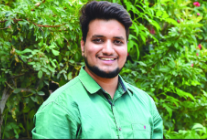
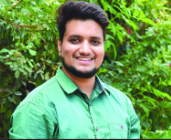
past edition cards

diff --git a/src/components/pasteditions/Pastspeakers.js b/src/components/pasteditions/Pastspeakers.js
@@ -1,14 +1,14 @@
 import React ,{useState} from 'react'
 import Videobutton from './Videobutton';
 import cvanand from '../images/year2018/cvanand.jpg'
-import akanshabumb from '../images/year2018/akanshabumb.png'
+import akanshabumb from '../images/year2018/akanshabumb.jpg'
 import rameshkumar from '../images/year2018/rameshkumar.png'
-import arshadquadri from '../images/year2018/arshadquadri.png'
-import jagadeeshkumar from '../images/year2018/jagadeeshkumar.png'
-import rakeshkumar from '../images/year2018/rakeshkumar.png'
+import arshadquadri from '../images/year2018/arshadquadri.jpg'
+import jagadeeshkumar from '../images/year2018/jagadeeshkumar.jpg'
+import rakeshkumar from '../images/year2018/rakeshkumar.jpg'
 import akhilagopalakrishnan from '../images/year2017/akhilagopalakrishnan.png'
-import anuradhanaik from '../images/year2017/anuradhanaik.png'
-import carolyntheresa from '../images/year2017/carolyntheresa.png'
+import anuradhanaik from '../images/year2017/anuradhanaik.jpg'
+import carolyntheresa from '../images/year2017/carolyntheresa.jpg'
 import jawwadpatel from '../images/year2017/jawwadpatel.png'
 import mohanakrishna from '../images/year2017/mohanakrishna.png'
 import prashantdhawan from '../images/year2017/prashantdhawan.png'
@@ -19,14 +19,14 @@ import sureshreddy from '../images/year2017/sureshreddy.jpg'
 import tisramband from '../images/year2017/tisramband.jpg'
 import bandrooh from "../images/year2016/bandrooh.png"
 import gandhikpc from "../images/year2016/gandhikpc.png"
-import nageswararao from "../images/year2016/nageswararao.png"
+import nageswararao from "../images/year2016/nageswararao.jpg"
 import paruvuharimohan from "../images/year2016/paruvuharimohan.png"
 import prasadkantamaneni from "../images/year2016/prasadkantamaneni.png"
-import ramanagogula from "../images/year2016/ramanagogula.png"
+import ramanagogula from "../images/year2016/ramanagogula.jpg"
 import rameshloganthan from "../images/year2016/rameshloganthan.png"
-import sandhyakode from "../images/year2016/sandhyakode.png"
+import sandhyakode from "../images/year2016/sandhyakode.jpg"
 import sanjayenishetty from "../images/year2016/sanjayenishetty.png"
-import seetamurthy from "../images/year2016/seetamurthy.png"
+import seetamurthy from "../images/year2016/seetamurthy.jpg"
 import theodorejonnalagadda from "../images/year2016/theodorejonnalagadda.png"
 import voicebox from "../images/year2016/voicebox.png"
 
@@ -66,7 +66,7 @@ function Pastspeakers({props}) {
                     "image":arshadquadri,
                 },
                 {
-                    "name":"Rakesh Kumar Renukuntala",
+                    "name":"Rakesh Kumar R",
                     "designation":"Entrepreneur, VFX" ,
                     "video":"",
                     "image":rakeshkumar,
@@ -149,18 +149,6 @@ function Pastspeakers({props}) {
             "year":2016,
             "speakers":[
                 {
-                    "name":"Band Rooh",
-                    "designation":"Fusion Band",
-                    "video":"https://youtube.com/embed/yxo7DYT-9C4",
-                    "image":bandrooh,
-                },
-                {
-                    "name":"Gandhi KPC",
-                    "designation":"Forensic Scientist",
-                    "video":"https://youtube.com/embed/QJLPla3cQPo",
-                    "image":gandhikpc,
-                },
-                {
                     "name":"Nageshwara Rao Dukkipati",
                     "designation":"Innovator",
                     "video":"https://youtube.com/embed/crZrM2_wbOY",
@@ -185,6 +173,18 @@ function Pastspeakers({props}) {
                     "image":ramanagogula,
                 },
                 {
+                    "name":"Seeta Murty",
+                    "designation":"School Principal,Author",
+                    "video":"https://youtube.com/embed/JggZuQR3-2U",
+                    "image":seetamurthy,
+                },
+                {
+                    "name":"Band Rooh",
+                    "designation":"Fusion Band",
+                    "video":"https://youtube.com/embed/yxo7DYT-9C4",
+                    "image":bandrooh,
+                },
+                {
                     "name":"Ramesh Loganathan",
                     "designation":"Vice president at Progress software",
                     "video":"https://youtube.com/embed/ncTY1hUBhuA",
@@ -202,11 +202,12 @@ function Pastspeakers({props}) {
                     "video":"https://youtube.com/embed/qIhcXTzQGJQ",
                     "image":sanjayenishetty,
                 },
+                
                 {
-                    "name":"Seeta Murty",
-                    "designation":"School Principal,Author",
-                    "video":"https://youtube.com/embed/JggZuQR3-2U",
-                    "image":seetamurthy,
+                    "name":"Gandhi KPC",
+                    "designation":"Forensic Scientist",
+                    "video":"https://youtube.com/embed/QJLPla3cQPo",
+                    "image":gandhikpc,
                 },
                 {
                     "name":"Theodore Jonnalagadda",
@@ -229,14 +230,14 @@ function Pastspeakers({props}) {
    
   return (
     <div className=''>
-        <h1 className='mobile:text-2xl  md:text-3xl lg:text-4xl mb-8 text-red-700 font-semibold mt-6'>Speakers</h1>
-        <div className="grid md:grid-cols-2 lg:grid-cols-3 xl:grid-cols-4  lg:gap-xl-12 mobile:ml-8 lg:ml-0">
+        <h1 className='mobile:text-2xl  md:text-3xl lg:text-4xl mb-4 text-red-700 font-semibold mt-6  '>Speakers</h1>
+        <div className="grid md:grid-cols-2 lg:grid-cols-3 xl:grid-cols-3  lg:gap-xl-12">
             {obj.map((s)=>(
-            <div className="mb-12 pt-6 pb-6 duration-200 rounded-xl  hover:bg-zinc-900 transition ease-in-out delay-150 hover:scale-110 p-6" style={{width:"250px"}}>
-                <img src={s['image']} className="rounded-lg shadow-lg mb-4 mx-auto" alt="" style={{width:"150px",height:"140px"} }/>
+            <div className=" rounded-xl mb-4 duration-200   hover:bg-zinc-900 transition ease-in-out delay-150 hover:scale-105 p-6 mobile:w-68 lg:w-80">
+                <img src={s['image']} className="rounded-lg shadow-lg mb-4 mx-auto" alt="" style={{width:"195px",height:"180px"} }/>
         
-                <p className="font-semibold mb-3 text-red-600 mx-auto text-center text-lg h-10">{s['name']}</p>
-                <p className="text-gray-400 mx-auto text-center h-20">{s['designation']}</p>
+                <p className="font-semibold mb-3 text-red-600 mx-auto text-center text-lg h-6">{s['name']}</p>
+                <p className="text-gray-400 mx-auto text-center h-14">{s['designation']}</p>
                 {s.video!="" && <Videobutton props={s.video}/>}
             </div>
             ))}

diff --git a/src/components/pasteditions/Videobutton.js b/src/components/pasteditions/Videobutton.js
@@ -23,7 +23,7 @@ function Videobutton({props}) {
   return (
     <div>
         <button
-                className="lg:block rounded-lg hover:bg-white  hover:text-red-700 text-white ease-in duration-300 delay-400 bg-red-800 px-2 mx-auto mobile:ml-14 lg:mx-auto"
+                className="lg:block rounded-lg hover:bg-white  hover:text-red-700 text-white ease-in duration-300 delay-400 bg-red-800 px-2 mx-auto mobile:ml-20 lg:mx-auto w-28"
                 onClick={openModal}
                 >
                     {/* <img className="w-52 rounded-full" src={props.image} alt={props.name} /> */}
